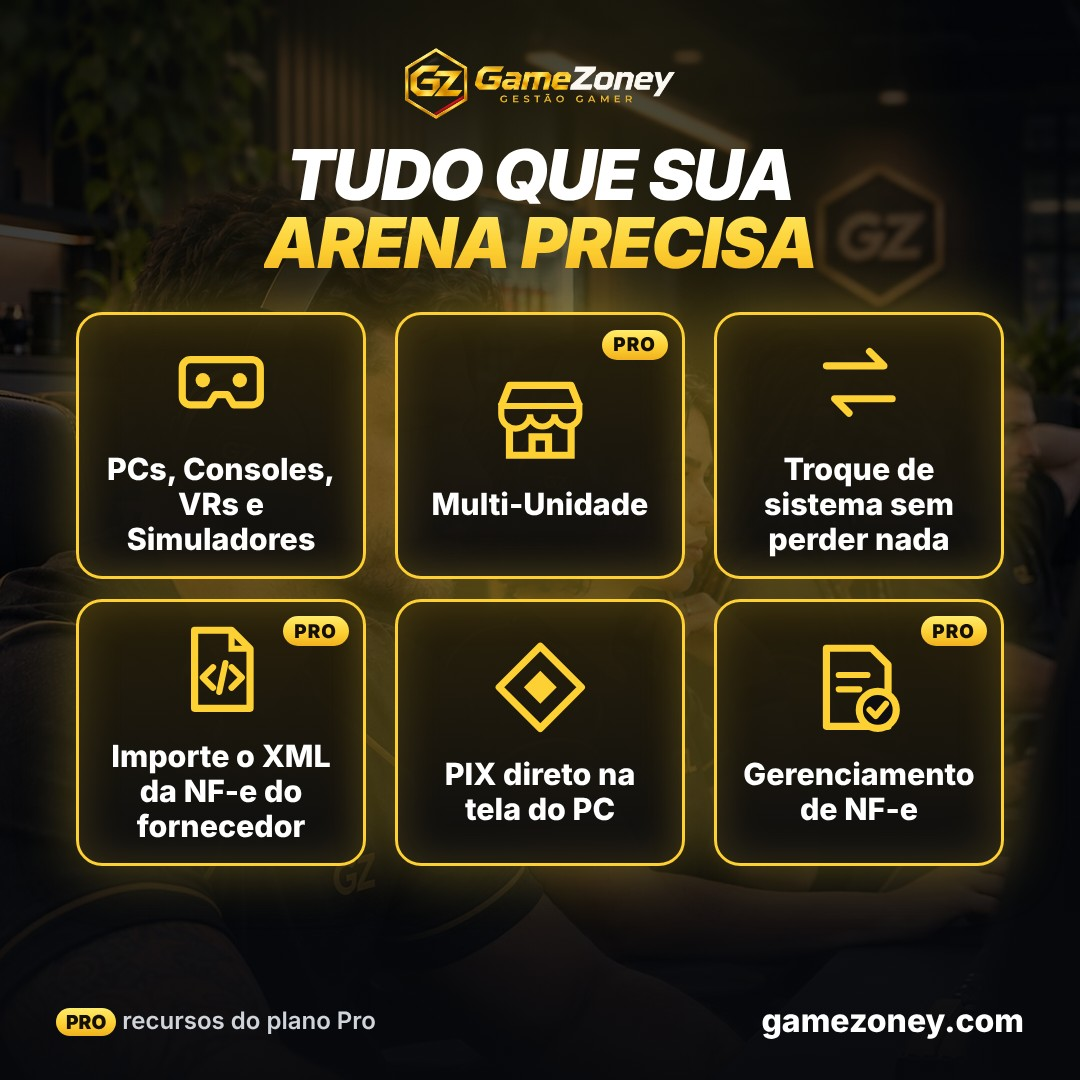
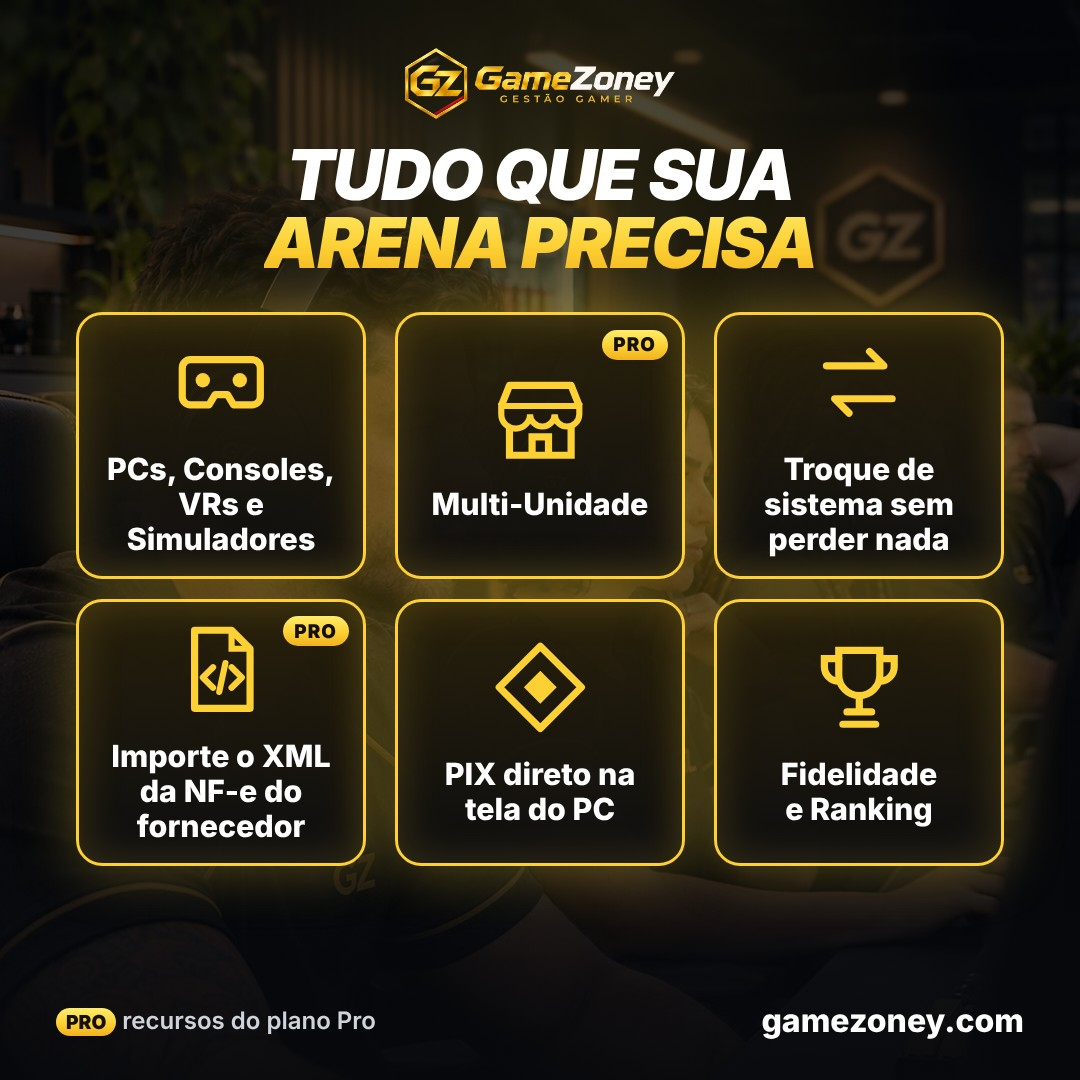
Anúncio quadrado: troca Gerenciamento de NF-e (repetido) por Fidelidade e Ranking
Claude-Session: https://claude.ai/code/session_011pBjUp777QtjBT9w3kkM9L

Changed region(s): [[0.6722, 0.5806, 0.9167, 0.7639], [0.8556, 0.55, 0.9167, 0.6111]]

diff --git a/marketing/gerar-anuncios.js b/marketing/gerar-anuncios.js
@@ -30,7 +30,7 @@ const ICON = {
   wifi: '<svg viewBox="0 0 48 48"><path d="M6 18a26 26 0 0 1 36 0M12 25a17 17 0 0 1 24 0M18 32a8 8 0 0 1 12 0" fill="none" stroke="currentColor" stroke-width="3.5" stroke-linecap="round"/><circle cx="24" cy="39" r="3" fill="currentColor"/></svg>'
 };
 // 2026-11-10 (pedido do dono): recursos em destaque SÓ na peça quadrada (vertical e horizontal continuam no estilo de antes: recursos/story/paisagem com a tela do painel); pro = selo PRO (o teste grátis não libera NF-e nem Multi-Unidade)
-const NOVAS = [['vr', 'PCs, Consoles,<br>VRs e<br>Simuladores'], ['lojas', 'Multi-Unidade', true], ['troca', 'Troque de<br>sistema sem<br>perder nada'], ['xml', 'Importe o XML<br>da NF-e do<br>fornecedor', true], ['pix', 'PIX direto na<br>tela do PC'], ['nfe', 'Gerenciamento<br>de NF-e', true]];
+const NOVAS = [['vr', 'PCs, Consoles,<br>VRs e<br>Simuladores'], ['lojas', 'Multi-Unidade', true], ['troca', 'Troque de<br>sistema sem<br>perder nada'], ['xml', 'Importe o XML<br>da NF-e do<br>fornecedor', true], ['pix', 'PIX direto na<br>tela do PC'], ['trofeu', 'Fidelidade<br>e Ranking']];
 const box = (list, size, fs = .105) => `<div style="display:flex;gap:${size * .1}px;justify-content:center">${list.map(([i, t, pro]) => `<div style="position:relative;width:${size}px;height:${size * .92}px;border-radius:${size * .09}px;border:3px solid #FDD034;background:linear-gradient(180deg,rgba(40,32,10,.92),rgba(14,14,16,.94));box-shadow:0 0 ${size * .2}px rgba(253,208,52,.35),inset 0 0 ${size * .15}px rgba(253,208,52,.18);display:flex;flex-direction:column;align-items:center;justify-content:center;gap:${size * .07}px;padding:0 ${size * .05}px">${pro ? `<div style="position:absolute;top:${size * .05}px;right:${size * .05}px;padding:${size * .012}px ${size * .04}px;border-radius:99px;background:${GOLD};color:#141008;font-size:${size * .065}px;font-weight:900;letter-spacing:1px">PRO</div>` : ''}<div style="width:${size * .34}px;height:${size * .34}px;color:#FDD034">${ICON[i]}</div><div style="font-weight:800;font-size:${size * fs}px;line-height:1.15;text-align:center;color:#fff;white-space:nowrap">${t}</div></div>`).join('')}</div>`;
 const proNote = fs => `<div style="font-size:${fs}px;color:#cfd3da;font-weight:600"><span style="padding:2px 10px;border-radius:99px;background:${GOLD};color:#141008;font-weight:900;font-size:${fs * .8}px">PRO</span> recursos do plano Pro</div>`;
 // planos (preços padrão de site/plans.js — conferir no /admin › Planos antes de anunciar)

diff --git a/marketing/ANUNCIOS-PASSO-A-PASSO.md b/marketing/ANUNCIOS-PASSO-A-PASSO.md
@@ -63,7 +63,7 @@ No próprio Instagram, publique a peça `feed-1080x1350-recursos` com a legenda 
 ---
 
 ### Campanha "Novidades" e "Troca de sistema" (nov/2026)
-- **Tudo que sua arena precisa** (peças `*-novidades`, refeitas em 10/11/2026 a pedido do dono): texto principal: *PCs, consoles, VRs e simuladores em um só sistema. Troque de sistema sem perder nada, receba PIX direto na tela do PC e, no plano Pro, importe o XML da NF-e do fornecedor, gerencie suas notas e acompanhe todas as unidades. Teste grátis por 30 dias.* — Título: *Tudo que sua arena precisa*. No mesmo anúncio (Meta: **Personalizar posicionamentos**, Instagram, Facebook e Threads marcados): **quadrado** = `quadrado-1080x1080-novidades` (os 6 recursos); **vertical 4:5** = `feed-1080x1350-recursos`; **vertical 9:16** (Stories/Reels/Status) = `story-1080x1920`; **horizontal** (coluna da direita, pesquisa, link) = `paisagem-1200x628` — vertical e horizontal no estilo de antes, com a tela do painel.
+- **Tudo que sua arena precisa** (peças `*-novidades`, refeitas em 10/11/2026 a pedido do dono): texto principal: *PCs, consoles, VRs e simuladores em um só sistema. Troque de sistema sem perder nada, receba PIX direto na tela do PC e, no plano Pro, importe o XML da NF-e do fornecedor e acompanhe todas as unidades. Fidelidade e ranking para seus clientes voltarem sempre. Teste grátis por 30 dias.* — Título: *Tudo que sua arena precisa*. No mesmo anúncio (Meta: **Personalizar posicionamentos**, Instagram, Facebook e Threads marcados): **quadrado** = `quadrado-1080x1080-novidades` (os 6 recursos); **vertical 4:5** = `feed-1080x1350-recursos`; **vertical 9:16** (Stories/Reels/Status) = `story-1080x1920`; **horizontal** (coluna da direita, pesquisa, link) = `paisagem-1200x628` — vertical e horizontal no estilo de antes, com a tela do painel.
 - **Atenção (desde a 1.2.8):** o teste grátis não libera Controle de impressão, NF-e, Multi-Unidade nem Gerenciar App. Por isso, nas peças com "Teste grátis", esses recursos levam o selo **PRO** e a nota "recursos do plano Pro" (não tire o selo: sem ele o anúncio promete algo que o teste não entrega). No texto do anúncio, cite NF-e e Multi-Unidade sempre com "no plano Pro".
 
 ### Campanha "Planos" e "PIX no PC" (nov/2026)
